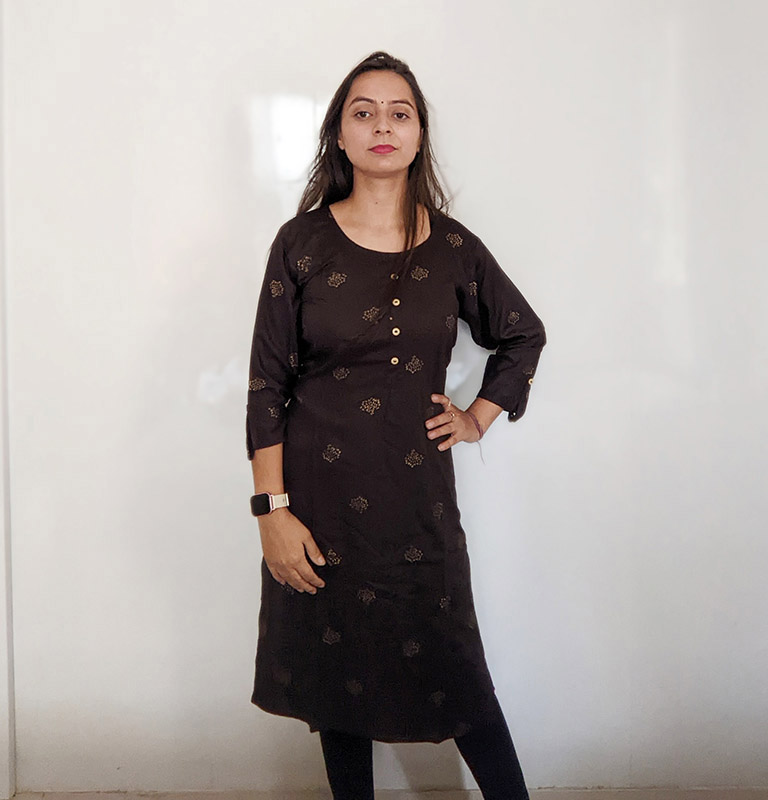
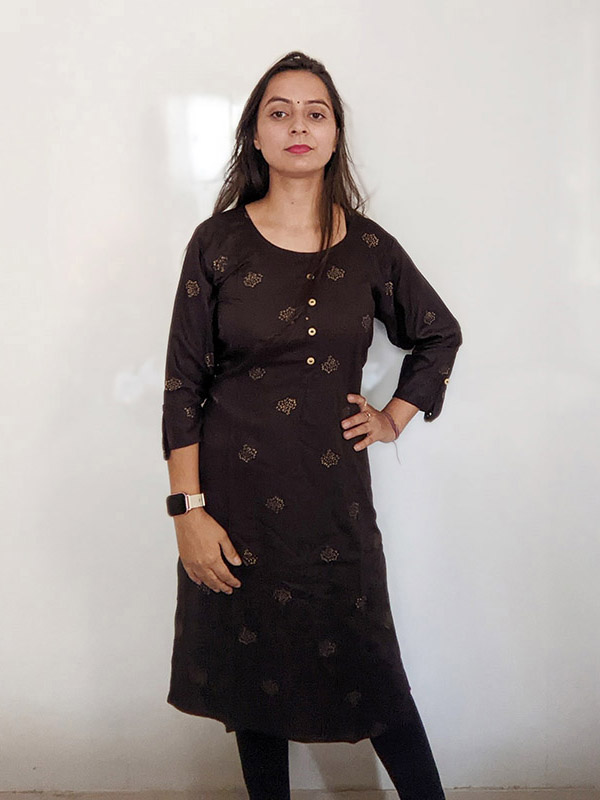
Use thumb.jpg for thumbnails on home page

diff --git a/index.html b/index.html
@@ -136,10 +136,8 @@
                               </div>
 
             <div class="gallery-item h-100">
-              <img src="assets/img/gallery/anarkali-green-kurta/a1.jpg" class="img-fluid" alt=""  style="width: 340px; height: 355px; text-align: center;">
+              <img src="assets/img/gallery/anarkali-green-kurta/thumb.jpg" class="img-fluid img-home-thumb" alt="Anarkali Green Kurta">
               <div class="gallery-links d-flex align-items-center justify-content-center">
-        
-             
                 <a href="pages/anarkali-green-kurta.html" class="details-link"><i class="bi bi-arrows-angle-expand"></i></a>
               </div>
             </div>
@@ -153,10 +151,8 @@
               
                               </div>
             <div class="gallery-item h-100">
-              <img src="assets/img/gallery/silk-kurta/a1.jpg" class="img-fluid" alt="" style="width: 355x; height: 355px; text-align: center;">
+              <img src="assets/img/gallery/silk-kurta/thumb.jpg" class="img-fluid img-home-thumb" alt="Silk Kurta">
               <div class="gallery-links d-flex align-items-center justify-content-center">
-                <!--<a href="assets/img/gallery/silk-kurta/a1.jpg" title="Gallery 1" class="glightbox preview-link"><i class="bi bi-arrows-angle-expand"></i></a> 
-                <a href="pages/silk-kurta.html" class="details-link"><i class="bi bi-link-45deg"></i></a> -->
                 <a href="pages/silk-kurta.html" class="details-link"><i class="bi bi-arrows-angle-expand"></i></a> 
               </div>
             </div>
@@ -171,10 +167,8 @@
               
                               </div>
             <div class="gallery-item h-100">
-              <img src="assets/img/gallery/office-wear-straight-kurta/a1.jpg" class="img-fluid" alt="" style="width: 355x; height: 355px; text-align: center;">
+              <img src="assets/img/gallery/office-wear-straight-kurta/thumb.jpg" class="img-fluid img-home-thumb" alt="Office Wear Straight Kurta">
               <div class="gallery-links d-flex align-items-center justify-content-center">
-                    <!-- <a href="assets/img/gallery/office-wear-straight-kurta/a1.jpg" title="Gallery 1" class="glightbox preview-link"><i class="bi bi-arrows-angle-expand"></i></a>
-                <a href="pages/office-wear-straight-kurta.html" class="details-link"><i class="bi bi-link-45deg"></i></a> -->
                 <a href="pages/office-wear-straight-kurta.html" class="details-link"><i class="bi bi-arrows-angle-expand"></i></a>
               </div>
             </div>
@@ -187,17 +181,15 @@
               
                               </div>
             <div class="gallery-item h-100">
-              <img src="assets/img/gallery/pink-white-kurta/a1.jpg" class="img-fluid" alt="" style="width: 355x; height: 355px; text-align: center;">
+              <img src="assets/img/gallery/pink-white-kurta/thumb.jpg" class="img-fluid img-home-thumb" alt="Pink White Kurta">
               <div class="gallery-links d-flex align-items-center justify-content-center">
-                <!--<a href="assets/img/gallery/pink-white-kurta/a1.jpg" title="Gallery 1" class="glightbox preview-link"><i class="bi bi-arrows-angle-expand"></i></a>
-                <a href="pages/pink-white-kurta.html" class="details-link"><i class="bi bi-link-45deg"></i></a>-->
                 <a href="pages/pink-white-kurta.html" class="details-link"><i class="bi bi-arrows-angle-expand"></i></a>
               </div>
             </div>
           </div>
-<hr>
+<!--<hr>
 <br> &nbsp; 
-&nbsp; &nbsp; 
+&nbsp; &nbsp; -->
 
           <div class="col-xl-3 col-lg-4 col-md-6">
             <div>
@@ -206,10 +198,8 @@
               
                               </div>
             <div class="gallery-item h-100">
-              <img src="assets/img/gallery/blue-dress/a1.jpg" class="img-fluid" alt="" style="width: 330px; height: 355px; text-align: center;">
+              <img src="assets/img/gallery/blue-dress/thumb.jpg" class="img-fluid img-home-thumb" alt="Blue Dress">
               <div class="gallery-links d-flex align-items-center justify-content-center">
-                <!--<a href="assets/img/gallery/blue-dress/a1.jpg" title="Gallery 1" class="glightbox preview-link"><i class="bi bi-arrows-angle-expand"></i></a>
-                <a href="pages/blue-dress.html" class="details-link"><i class="bi bi-link-45deg"></i></a> -->
                 <a href="pages/blue-dress.html" class="details-link"><i class="bi bi-arrows-angle-expand"></i></a>
               </div>
             </div>
@@ -222,11 +212,8 @@
               
                               </div>
             <div class="gallery-item h-100">
-              <img src="assets/img/gallery/black-straight-kurti/a1.jpg" class="img-fluid" alt="" style="width: 355x; height: 355px; text-align: center;">
+              <img src="assets/img/gallery/black-straight-kurti/thumb.jpg" class="img-fluid img-home-thumb" alt="Black Straight Kurti">
               <div class="gallery-links d-flex align-items-center justify-content-center">
-                <!--<a href="assets/img/gallery/black-straight-kurti/a1.jpg" title="Gallery 1" class="glightbox preview-link"><i class="bi bi-arrows-angle-expand"></i></a>
-                <a href="pages/black-straight-kurti.html" class="details-link"><i class="bi bi-link-45deg"></i></a> -->
-
                 <a href="pages/black-straight-kurti.html" class="details-link"><i class="bi bi-arrows-angle-expand"></i></a>
               </div>
             </div>
@@ -239,10 +226,8 @@
               
                               </div>
             <div class="gallery-item h-100">
-              <img src="assets/img/gallery/blue-straight/a1.jpg" class="img-fluid" alt="" style="width: 300px; height: 355px; text-align: center;">
+              <img src="assets/img/gallery/blue-straight/thumb.jpg" class="img-fluid img-home-thumb" alt="Blue Straight Kurta">
               <div class="gallery-links d-flex align-items-center justify-content-center">
-               <!-- <a href="assets/img/gallery/blue-straight/a1.jpg" title="Gallery 1" class="glightbox preview-link"><i class="bi bi-arrows-angle-expand"></i></a>
-                <a href="pages/blue-straight.html" class="details-link"><i class="bi bi-link-45deg"></i></a>  -->
                 <a href="pages/blue-straight.html" class="details-link"><i class="bi-arrows-angle-expand"></i></a> 
               </div>
             </div>

diff --git a/assets/css/main.css b/assets/css/main.css
@@ -1283,3 +1283,12 @@ h6 {
 .footer .credits a {
   color: var(--color-primary);
 }
+
+/*
+Thumbnail image on home page
+*/
+.img-home-thumb {
+  max-width: 350px;
+  max-height: 500px;
+  text-align: center;
+}
